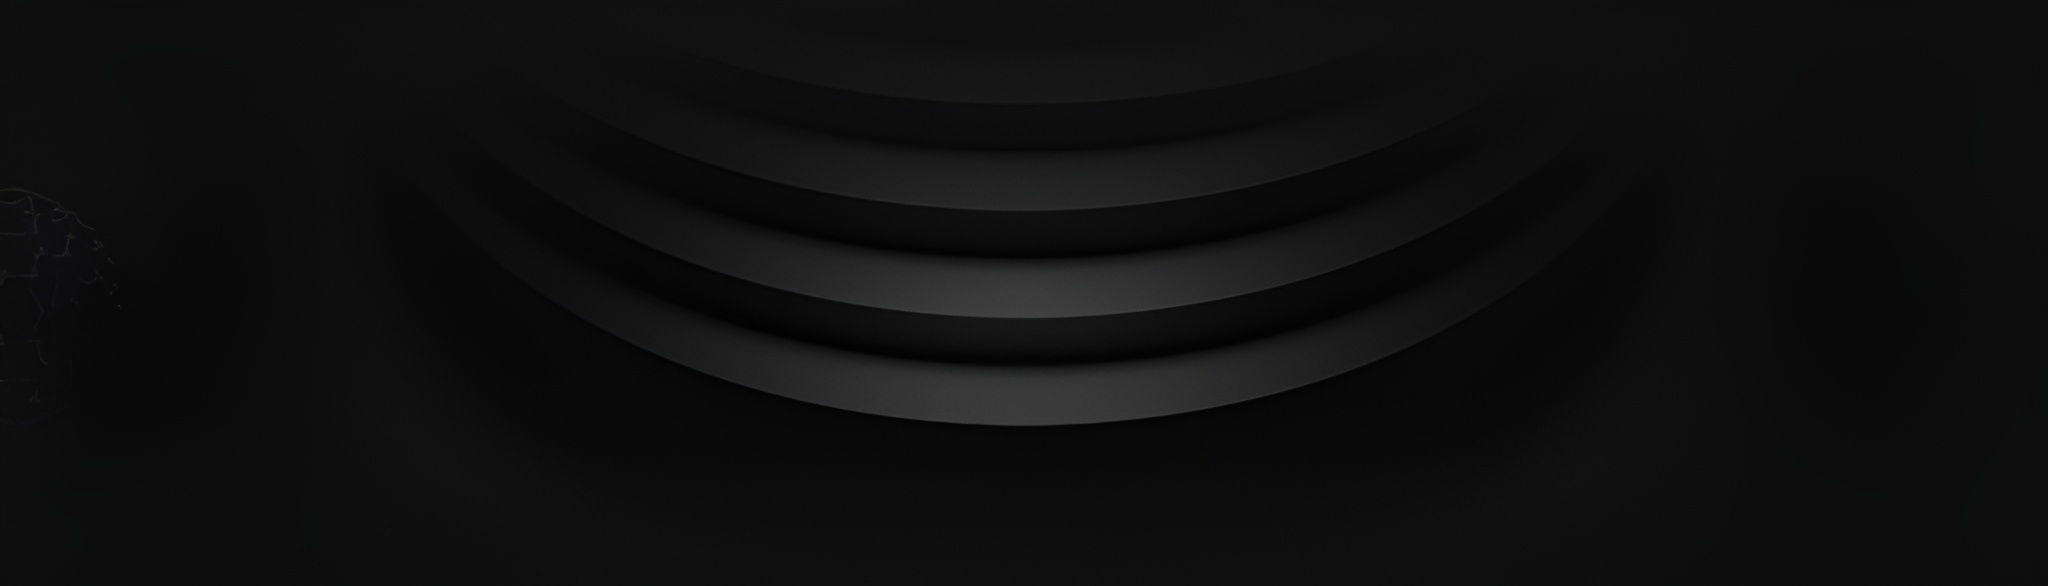
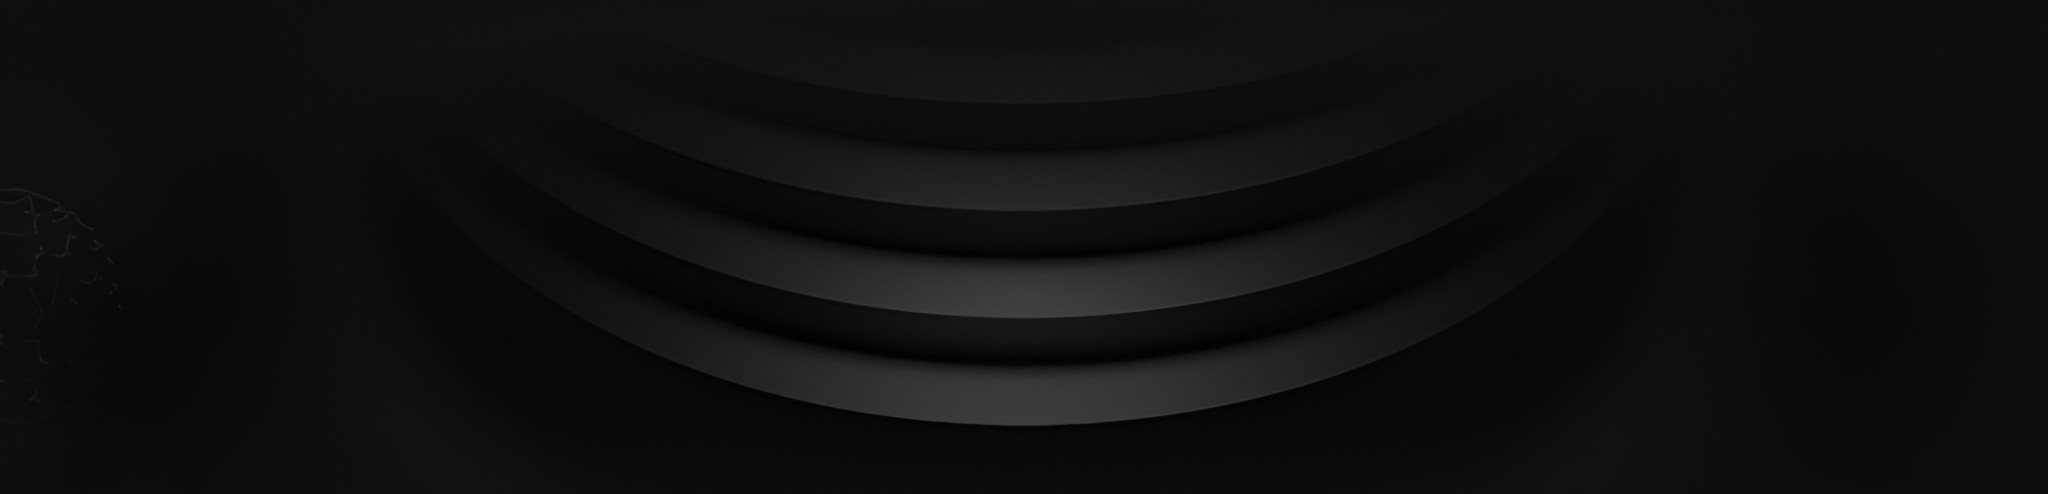
responsive chnages

Changed region(s): [[0.3438, 0.3947, 0.6562, 0.8806]]

diff --git a/src/app/services/ServiceHero.jsx b/src/app/services/ServiceHero.jsx
@@ -17,22 +17,24 @@ export default function ServiceHero({ logoWidth = 180, logoHeight = 80 }) {
   const [menuOpen, setMenuOpen] = useState(false);
   return (
     <section
-      className="relative min-h-[55vh] w-full bg-cover bg-center text-black"
+      className="relative min-h-[40vh] w-full bg-cover bg-center text-black"
       style={{ backgroundImage: 'url(/image/pagebg.jpg)' }}
     >
       {/* NAVBAR */}
   <header className="absolute top-0 left-0 w-full z-30 flex items-center justify-center px-4 md:px-16 py-8">
         {/* Logo */}
         <div className="absolute left-4 md:left-8 top-1/2 -translate-y-1/2">
-          <Image
-            src="/image/lo.png"
-            alt="Logo"
-            width={logoWidth}
-            height={logoHeight}
-            className="object-contain"
-            style={{ filter: 'brightness(0) invert(1) contrast(1.2)' }}
-            priority
-          />
+          <a href="/">
+            <Image
+              src="/image/lo.png"
+              alt="Logo"
+              width={logoWidth}
+              height={logoHeight}
+              className="object-contain"
+              style={{ filter: 'brightness(0) invert(1) contrast(1.2)' }}
+              priority
+            />
+          </a>
         </div>
 
         {/* Desktop Nav */}
@@ -192,7 +194,7 @@ export default function ServiceHero({ logoWidth = 180, logoHeight = 80 }) {
       </div>
 
       {/* Hero Content */}
-  <div className="flex flex-col items-start justify-center h-[55vh] md:h-[60vh] pl-4 md:pl-16 pt-32 md:pt-40">
+  <div className="flex flex-col items-start justify-center h-[5vh] md:h-[60vh] pl-4 md:pl-16 pt-44 md:pt-40">
         <h1 className="text-5xl md:text-7xl font-extrabold text-white mb-6">SERVICES</h1>
         <div className="flex items-center space-x-3 text-lg md:text-xl font-semibold">
           <a href="/" className="flex items-center text-orange-400 hover:text-orange-500 transition-colors">

diff --git a/src/app/contact/ContactHero.jsx b/src/app/contact/ContactHero.jsx
@@ -17,13 +17,14 @@ export default function ServiceHero({ logoWidth = 180, logoHeight = 80 }) {
   const [menuOpen, setMenuOpen] = useState(false);
   return (
     <section
-      className="relative min-h-[55vh] w-full bg-cover bg-center text-black"
+      className="relative min-h-[40vh] w-full bg-cover bg-center text-black"
       style={{ backgroundImage: 'url(/image/pagebg.jpg)' }}
     >
       {/* NAVBAR */}
   <header className="absolute top-0 left-0 w-full z-30 flex items-center justify-center px-4 md:px-16 py-8">
         {/* Logo */}
         <div className="absolute left-4 md:left-8 top-1/2 -translate-y-1/2">
+        <a href="/">
           <Image
             src="/image/lo.png"
             alt="Logo"
@@ -33,6 +34,7 @@ export default function ServiceHero({ logoWidth = 180, logoHeight = 80 }) {
             style={{ filter: 'brightness(0) invert(1) contrast(1.2)' }}
             priority
           />
+          </a>
         </div>
 
         {/* Desktop Nav */}
@@ -192,8 +194,8 @@ export default function ServiceHero({ logoWidth = 180, logoHeight = 80 }) {
       </div>
 
       {/* Hero Content */}
-  <div className="flex flex-col items-start justify-center h-[55vh] md:h-[60vh] pl-4 md:pl-16 pt-32 md:pt-40">
-        <h1 className="text-5xl md:text-7xl font-extrabold text-white mb-6">CONTACT</h1>
+  <div className="flex flex-col items-start justify-center h-[5vh] md:h-[60vh] 2xl:h-[70vh] pl-4 md:pl-16 2xl:pl-16 pt-44 md:pt-40 2xl:pt-56">
+        <h1 className="text-5xl md:text-7xl 2xl:text-8xl font-extrabold text-white mb-6">CONTACT</h1>
         <div className="flex items-center space-x-3 text-lg md:text-xl font-semibold">
           <a href="/" className="flex items-center text-orange-400 hover:text-orange-500 transition-colors">
             <FaHome className="w-6 h-6 mr-1 text-orange-400" />

diff --git a/src/app/about/AboutHero.jsx b/src/app/about/AboutHero.jsx
@@ -17,13 +17,14 @@ export default function ServiceHero({ logoWidth = 180, logoHeight = 80 }) {
   const [menuOpen, setMenuOpen] = useState(false);
   return (
     <section
-      className="relative min-h-[55vh] w-full bg-cover bg-center text-black"
+      className="relative min-h-[40vh] w-full bg-cover bg-center text-black"
       style={{ backgroundImage: 'url(/image/pagebg.jpg)' }}
     >
       {/* NAVBAR */}
   <header className="absolute top-0 left-0 w-full z-30 flex items-center justify-center px-4 md:px-16 py-8">
         {/* Logo */}
         <div className="absolute left-4 md:left-8 top-1/2 -translate-y-1/2">
+        <a href="/">
           <Image
             src="/image/lo.png"
             alt="Logo"
@@ -33,6 +34,7 @@ export default function ServiceHero({ logoWidth = 180, logoHeight = 80 }) {
             style={{ filter: 'brightness(0) invert(1) contrast(1.2)' }}
             priority
           />
+          </a>
         </div>
 
         {/* Desktop Nav */}
@@ -192,7 +194,7 @@ export default function ServiceHero({ logoWidth = 180, logoHeight = 80 }) {
       </div>
 
       {/* Hero Content */}
-  <div className="flex flex-col items-start justify-center h-[55vh] md:h-[60vh] pl-4 md:pl-16 pt-32 md:pt-40">
+  <div className="flex flex-col items-start justify-center h-[5vh] md:h-[60vh] pl-4 md:pl-16 pt-44 md:pt-40">
         <h1 className="text-5xl md:text-7xl font-extrabold text-white mb-6">ABOUT</h1>
         <div className="flex items-center space-x-3 text-lg md:text-xl font-semibold">
           <a href="/" className="flex items-center text-orange-400 hover:text-orange-500 transition-colors">

diff --git a/src/app/blog/BlogHero.jsx b/src/app/blog/BlogHero.jsx
@@ -17,13 +17,14 @@ export default function ServiceHero({ logoWidth = 180, logoHeight = 80 }) {
   const [menuOpen, setMenuOpen] = useState(false);
   return (
     <section
-      className="relative min-h-[55vh] w-full bg-cover bg-center text-black"
+      className="relative min-h-[40vh] w-full bg-cover bg-center text-black"
       style={{ backgroundImage: 'url(/image/pagebg.jpg)' }}
     >
       {/* NAVBAR */}
   <header className="absolute top-0 left-0 w-full z-30 flex items-center justify-center px-4 md:px-16 py-8">
         {/* Logo */}
         <div className="absolute left-4 md:left-8 top-1/2 -translate-y-1/2">
+         <a href="/">
           <Image
             src="/image/lo.png"
             alt="Logo"
@@ -33,6 +34,7 @@ export default function ServiceHero({ logoWidth = 180, logoHeight = 80 }) {
             style={{ filter: 'brightness(0) invert(1) contrast(1.2)' }}
             priority
           />
+          </a>
         </div>
 
         {/* Desktop Nav */}
@@ -192,7 +194,7 @@ export default function ServiceHero({ logoWidth = 180, logoHeight = 80 }) {
       </div>
 
       {/* Hero Content */}
-  <div className="flex flex-col items-start justify-center h-[55vh] md:h-[60vh] pl-4 md:pl-16 pt-32 md:pt-40">
+  <div className="flex flex-col items-start justify-center h-[5vh] md:h-[60vh] pl-4 md:pl-16 pt-44 md:pt-40">
         <h1 className="text-5xl md:text-7xl font-extrabold text-white mb-6">BLOG</h1>
         <div className="flex items-center space-x-3 text-lg md:text-xl font-semibold">
           <a href="/" className="flex items-center text-orange-400 hover:text-orange-500 transition-colors">

diff --git a/src/app/work/WorkHero.jsx b/src/app/work/WorkHero.jsx
@@ -17,13 +17,14 @@ export default function ServiceHero({ logoWidth = 180, logoHeight = 80 }) {
   const [menuOpen, setMenuOpen] = useState(false);
   return (
     <section
-      className="relative min-h-[55vh] w-full bg-cover bg-center text-black"
+      className="relative min-h-[40vh] w-full bg-cover bg-center text-black"
       style={{ backgroundImage: 'url(/image/pagebg.jpg)' }}
     >
       {/* NAVBAR */}
   <header className="absolute top-0 left-0 w-full z-30 flex items-center justify-center px-4 md:px-16 py-8">
         {/* Logo */}
         <div className="absolute left-4 md:left-8 top-1/2 -translate-y-1/2">
+        <a href="/">
           <Image
             src="/image/lo.png"
             alt="Logo"
@@ -33,6 +34,7 @@ export default function ServiceHero({ logoWidth = 180, logoHeight = 80 }) {
             style={{ filter: 'brightness(0) invert(1) contrast(1.2)' }}
             priority
           />
+          </a>
         </div>
 
         {/* Desktop Nav */}
@@ -192,7 +194,7 @@ export default function ServiceHero({ logoWidth = 180, logoHeight = 80 }) {
       </div>
 
       {/* Hero Content */}
-  <div className="flex flex-col items-start justify-center h-[55vh] md:h-[60vh] pl-4 md:pl-16 pt-32 md:pt-40">
+  <div className="flex flex-col items-start justify-center h-[5vh] md:h-[60vh] pl-4 md:pl-16 pt-44 md:pt-40">
         <h1 className="text-5xl md:text-7xl font-extrabold text-white mb-6">WORK</h1>
         <div className="flex items-center space-x-3 text-lg md:text-xl font-semibold">
           <a href="/" className="flex items-center text-orange-400 hover:text-orange-500 transition-colors">

diff --git a/src/app/contact/Contactus.jsx b/src/app/contact/Contactus.jsx
@@ -61,10 +61,10 @@ export default function Contactus() {
   };
 
   return (
-    <div className="w-full min-h-screen bg-gradient-to-br from-gray-100 to-white flex items-center justify-center py-10 px-2 md:px-0">
-      <div className="w-full max-w-6xl bg-white/70 rounded-2xl shadow-xl flex flex-col md:flex-row overflow-hidden">
+    <div className="w-full min-h-screen bg-gradient-to-br from-gray-100 to-white flex items-center justify-center py-10 px-2 md:px-0 2xl:px-20">
+      <div className="w-full max-w-6xl 2xl:max-w-7xl bg-white/70 rounded-2xl shadow-xl flex flex-col md:flex-row overflow-hidden">
         {/* Left Side */}
-        <div className="md:w-1/2 p-8 md:p-10 flex flex-col justify-between">
+  <div className="md:w-1/2 p-8 md:p-10 2xl:p-16 flex flex-col justify-between">
           <div>
             <h2 className="text-3xl md:text-4xl font-extrabold mb-8 tracking-tight">GET IN TOUCH</h2>
             <div className="space-y-6 mb-8">
@@ -105,7 +105,7 @@ export default function Contactus() {
           </div>
         </div>
         {/* Right Side (Form) */}
-        <div className="md:w-1/2 bg-white/60 p-8 md:p-10 flex flex-col justify-center">
+  <div className="md:w-1/2 bg-white/60 p-8 md:p-10 2xl:p-16 flex flex-col justify-center">
           <form className="space-y-6" onSubmit={handleSubmit}>
             <input
               type="text"
